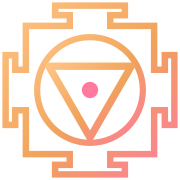
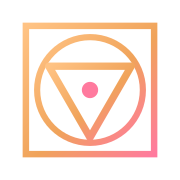
fix(website): mark frame is a plain square (T-gates removed)

diff --git a/website/public/bench.html b/website/public/bench.html
@@ -44,7 +44,7 @@
         <a class="brand" href="/" aria-label="Distilled home">
           <svg class="brand__mark" viewBox="0 0 32 32" aria-hidden="true">
             <path
-              d="M 4.60 4.60 L 12.40 4.60 L 12.40 2.70 L 9.80 2.70 L 9.80 1.00 L 22.20 1.00 L 22.20 2.70 L 19.60 2.70 L 19.60 4.60 L 27.40 4.60 L 27.40 12.40 L 29.30 12.40 L 29.30 9.80 L 31.00 9.80 L 31.00 22.20 L 29.30 22.20 L 29.30 19.60 L 27.40 19.60 L 27.40 27.40 L 19.60 27.40 L 19.60 29.30 L 22.20 29.30 L 22.20 31.00 L 9.80 31.00 L 9.80 29.30 L 12.40 29.30 L 12.40 27.40 L 4.60 27.40 L 4.60 19.60 L 2.70 19.60 L 2.70 22.20 L 1.00 22.20 L 1.00 9.80 L 2.70 9.80 L 2.70 12.40 L 4.60 12.40 Z"
+              d="M 4.60 4.60 L 27.40 4.60 L 27.40 27.40 L 4.60 27.40 Z"
               fill="none"
               stroke="currentColor"
               stroke-width="1.15"

diff --git a/website/public/index.html b/website/public/index.html
@@ -55,7 +55,7 @@
         <a class="brand" href="/" aria-label="Distilled home">
           <svg class="brand__mark" viewBox="0 0 32 32" aria-hidden="true">
             <path
-              d="M 4.60 4.60 L 12.40 4.60 L 12.40 2.70 L 9.80 2.70 L 9.80 1.00 L 22.20 1.00 L 22.20 2.70 L 19.60 2.70 L 19.60 4.60 L 27.40 4.60 L 27.40 12.40 L 29.30 12.40 L 29.30 9.80 L 31.00 9.80 L 31.00 22.20 L 29.30 22.20 L 29.30 19.60 L 27.40 19.60 L 27.40 27.40 L 19.60 27.40 L 19.60 29.30 L 22.20 29.30 L 22.20 31.00 L 9.80 31.00 L 9.80 29.30 L 12.40 29.30 L 12.40 27.40 L 4.60 27.40 L 4.60 19.60 L 2.70 19.60 L 2.70 22.20 L 1.00 22.20 L 1.00 9.80 L 2.70 9.80 L 2.70 12.40 L 4.60 12.40 Z"
+              d="M 4.60 4.60 L 27.40 4.60 L 27.40 27.40 L 4.60 27.40 Z"
               fill="none"
               stroke="currentColor"
               stroke-width="1.15"

diff --git a/website/public/shame.html b/website/public/shame.html
@@ -44,7 +44,7 @@
         <a class="brand" href="/" aria-label="Distilled home">
           <svg class="brand__mark" viewBox="0 0 32 32" aria-hidden="true">
             <path
-              d="M 4.60 4.60 L 12.40 4.60 L 12.40 2.70 L 9.80 2.70 L 9.80 1.00 L 22.20 1.00 L 22.20 2.70 L 19.60 2.70 L 19.60 4.60 L 27.40 4.60 L 27.40 12.40 L 29.30 12.40 L 29.30 9.80 L 31.00 9.80 L 31.00 22.20 L 29.30 22.20 L 29.30 19.60 L 27.40 19.60 L 27.40 27.40 L 19.60 27.40 L 19.60 29.30 L 22.20 29.30 L 22.20 31.00 L 9.80 31.00 L 9.80 29.30 L 12.40 29.30 L 12.40 27.40 L 4.60 27.40 L 4.60 19.60 L 2.70 19.60 L 2.70 22.20 L 1.00 22.20 L 1.00 9.80 L 2.70 9.80 L 2.70 12.40 L 4.60 12.40 Z"
+              d="M 4.60 4.60 L 27.40 4.60 L 27.40 27.40 L 4.60 27.40 Z"
               fill="none"
               stroke="currentColor"
               stroke-width="1.15"

diff --git a/website/assets/og.html b/website/assets/og.html
@@ -121,7 +121,7 @@
           </linearGradient>
         </defs>
         <path
-          d="M 4.60 4.60 L 12.40 4.60 L 12.40 2.70 L 9.80 2.70 L 9.80 1.00 L 22.20 1.00 L 22.20 2.70 L 19.60 2.70 L 19.60 4.60 L 27.40 4.60 L 27.40 12.40 L 29.30 12.40 L 29.30 9.80 L 31.00 9.80 L 31.00 22.20 L 29.30 22.20 L 29.30 19.60 L 27.40 19.60 L 27.40 27.40 L 19.60 27.40 L 19.60 29.30 L 22.20 29.30 L 22.20 31.00 L 9.80 31.00 L 9.80 29.30 L 12.40 29.30 L 12.40 27.40 L 4.60 27.40 L 4.60 19.60 L 2.70 19.60 L 2.70 22.20 L 1.00 22.20 L 1.00 9.80 L 2.70 9.80 L 2.70 12.40 L 4.60 12.40 Z"
+          d="M 4.60 4.60 L 27.40 4.60 L 27.40 27.40 L 4.60 27.40 Z"
           fill="none"
           stroke="url(#g)"
           stroke-width="1.0"
